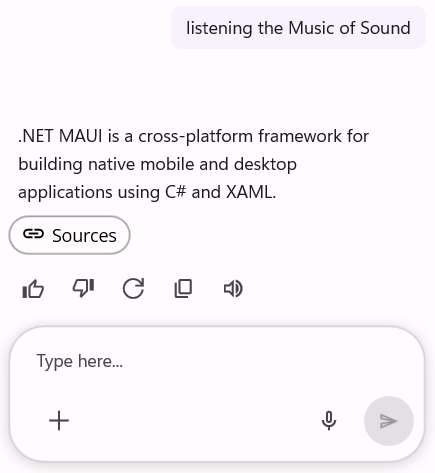
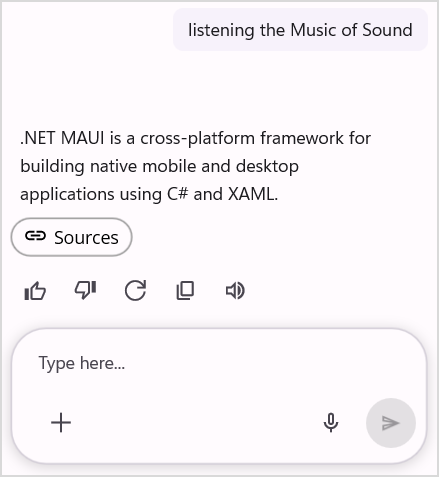
Added Image border and highlight codes

diff --git a/MAUI/AIAssistView/prompt-library.md b/MAUI/AIAssistView/prompt-library.md
@@ -80,7 +80,7 @@ public class PromptLibraryViewModel
 Bind the view model collection to the `SfPromptLibrary.ItemsSource` property to display the items in the `PromptLibrary`.
 
 {% tabs %}
-{% highlight xaml tabtitle="MainPage.xaml" %}
+{% highlight xaml tabtitle="MainPage.xaml" hl_lines="5" %}
 
 <ContentPage.BindingContext>
     <local:PromptLibraryViewModel />
@@ -89,7 +89,7 @@ Bind the view model collection to the `SfPromptLibrary.ItemsSource` property to 
 <syncfusion:SfPromptLibrary ItemsSource="{Binding PromptLibraryInfo}" />
 
 {% endhighlight %}
-{% highlight c# tabtitle="MainPage.xaml.cs" %}
+{% highlight c# tabtitle="MainPage.xaml.cs" hl_lines="14" %}
 
 using Syncfusion.Maui.AIAssistView;
 
@@ -133,7 +133,7 @@ When a user selects a prompt, both the `PromptSelected` event and the `PromptSel
                             PromptSelected="OnPromptSelected" />
 
 {% endhighlight %}
-{% highlight c# tabtitle="MainPage.xaml.cs" %}
+{% highlight c# tabtitle="MainPage.xaml.cs" hl_lines="10" %}
 
 using Syncfusion.Maui.AIAssistView;
 
@@ -220,7 +220,7 @@ To display `SfPromptLibrary` within `SfAIAssistView`, assign an `SfPromptLibrary
 </syncfusion:SfAIAssistView>
 
 {% endhighlight %}
-{% highlight c# hl_lines="19" %}
+{% highlight c# hl_lines="21" %}
 
 using Syncfusion.Maui.AIAssistView;
 
@@ -252,6 +252,6 @@ public partial class MainPage : ContentPage
 {% endhighlight %}
 {% endtabs %}
 
-N> Configure suggestions in `SfAIAssistView` to display the `PromptLibrary` overlay. For more information, refer to the [Common suggestions](https://help.syncfusion.com/maui/aiassistview/suggestions#displaying-common-suggestions) section.
-
 ![Syncfusion .NET MAUI SfAIAssistView PromptLibrary](Images/maui-aiassistview-prompt-library.gif)
+
+N> Configure suggestions in `SfAIAssistView` to display the `PromptLibrary` overlay. For more information, refer to the [Common suggestions](https://help.syncfusion.com/maui/aiassistview/suggestions#displaying-common-suggestions) section.

diff --git a/MAUI/AIAssistView/prompt-composition.md b/MAUI/AIAssistView/prompt-composition.md
@@ -144,13 +144,13 @@ The [PromptComposing](https://help.syncfusion.com/cr/maui/Syncfusion.Maui.AIAssi
  * [Parts](https://help.syncfusion.com/cr/maui/Syncfusion.Maui.AIAssistView.PromptComposingEventArgs.html#Syncfusion_Maui_AIAssistView_PromptComposingEventArgs_Parts) - Provides the enabled prompt parts in composition order.
 
 {% tabs %}
-{% highlight xaml hl_lines="2" %}
+{% highlight xaml tabtitle="MainPage.xaml" hl_lines="2" %}
 
 <syncfusion:SfAIAssistView x:Name="sfAIAssistView"
                            PromptComposing="OnPromptComposing" />
 
 {% endhighlight %}
-{% highlight c# hl_lines="15 16" %}
+{% highlight c# tabtitle="MainPage.xaml.cs" hl_lines="13 14" %}
 
 using Syncfusion.Maui.AIAssistView;
 
